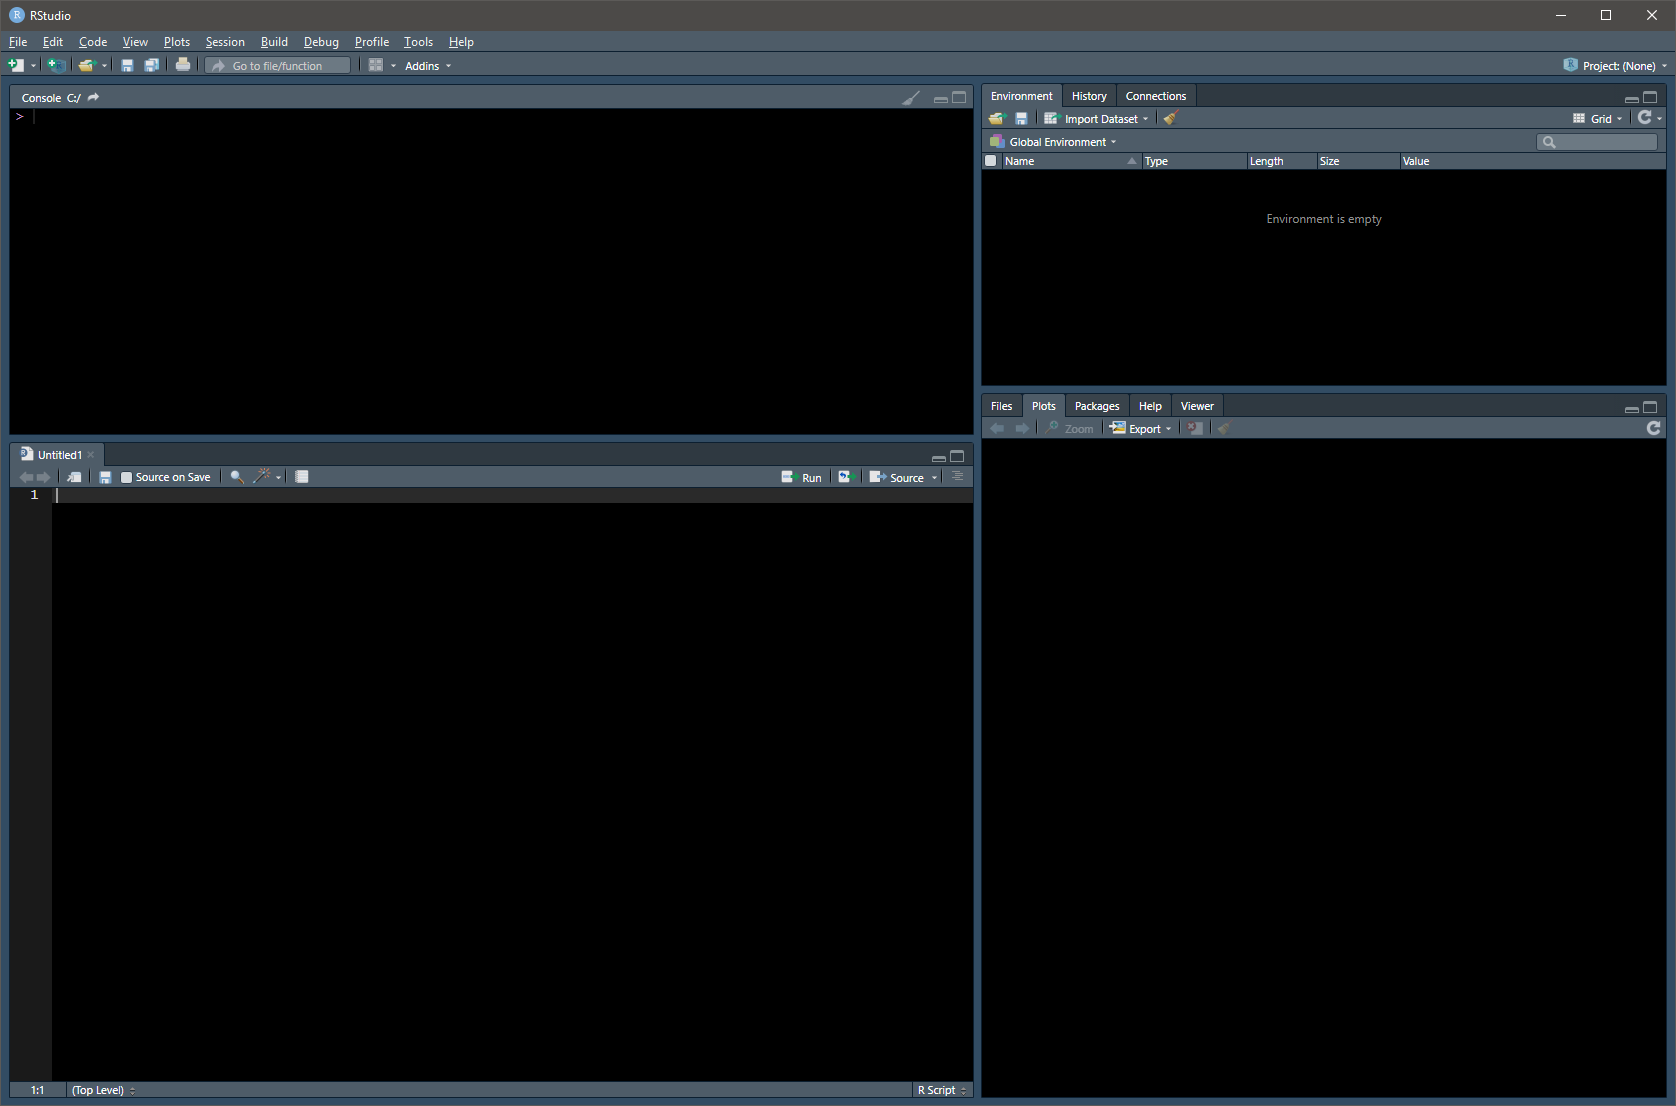
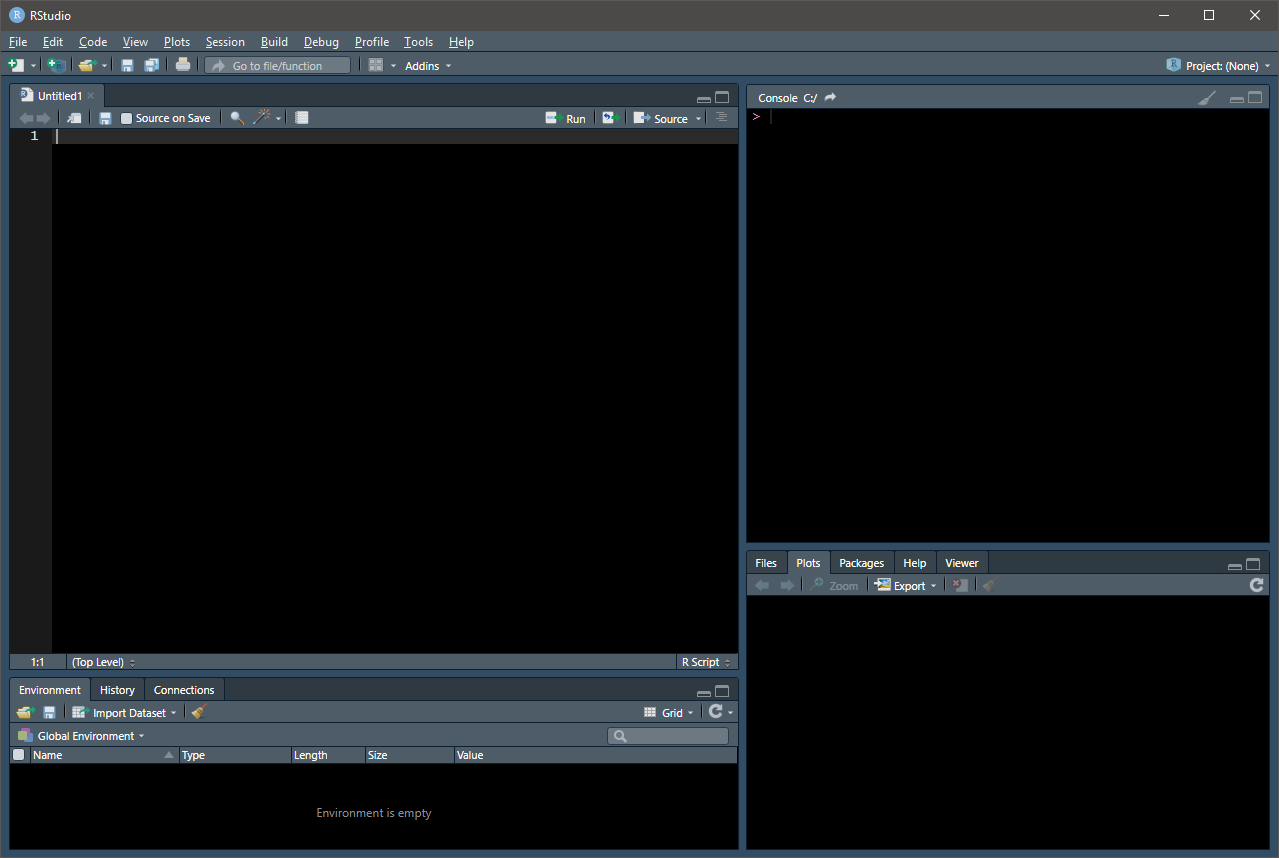
Add files via upload

Changed region(s): [[0.0, 0.0, 1.0, 1.0], [0.7623, 0.1818, 0.8233, 0.2121]]

diff --git a/index.html b/index.html
@@ -11,7 +11,7 @@
 
 
 
-<meta name="date" content="2019-07-30" />
+<meta name="date" content="2019-10-22" />
 
 <title>R Cheat Sheet</title>
 
@@ -160,7 +160,6 @@ code {
 }
 img {
   max-width:100%;
-  height: auto;
 }
 .tabbed-pane {
   padding-top: 12px;
@@ -367,7 +366,7 @@ $(document).ready(function () {
 
 
 <h1 class="title toc-ignore">R Cheat Sheet</h1>
-<h4 class="date">July 30, 2019</h4>
+<h4 class="date">October 22, 2019</h4>
 
 </div>
 
@@ -421,7 +420,7 @@ img {
 </ul></li>
 <li>(Optional, Windows Only) Download and install Rtools: <a href="https://cran.r-project.org/bin/windows/Rtools/">https://cran.r-project.org/bin/windows/Rtools/</a>
 <ul>
-<li>Having Rtools installed will allow R to compile packages from source, which confers a performance boost.</li>
+<li>Having Rtools installed will allow R to compile packages from source.</li>
 </ul></li>
 <li>Download and install RStudio: <a href="https://www.rstudio.com/products/rstudio/download/#download">https://www.rstudio.com/products/rstudio/download/#download</a>
 <ul>
@@ -429,7 +428,7 @@ img {
 <li>Select a theme that is easy on the eyes. Here’s what my RStudio looks like:</li>
 </ul></li>
 </ol>
-<p><img src="rstudio.png" /><!-- --></p>
+<p><img src="rstudio.png" width="100%" /></p>
 <p><br></p>
 </div>
 <div id="set-working-directory" class="section level3">
